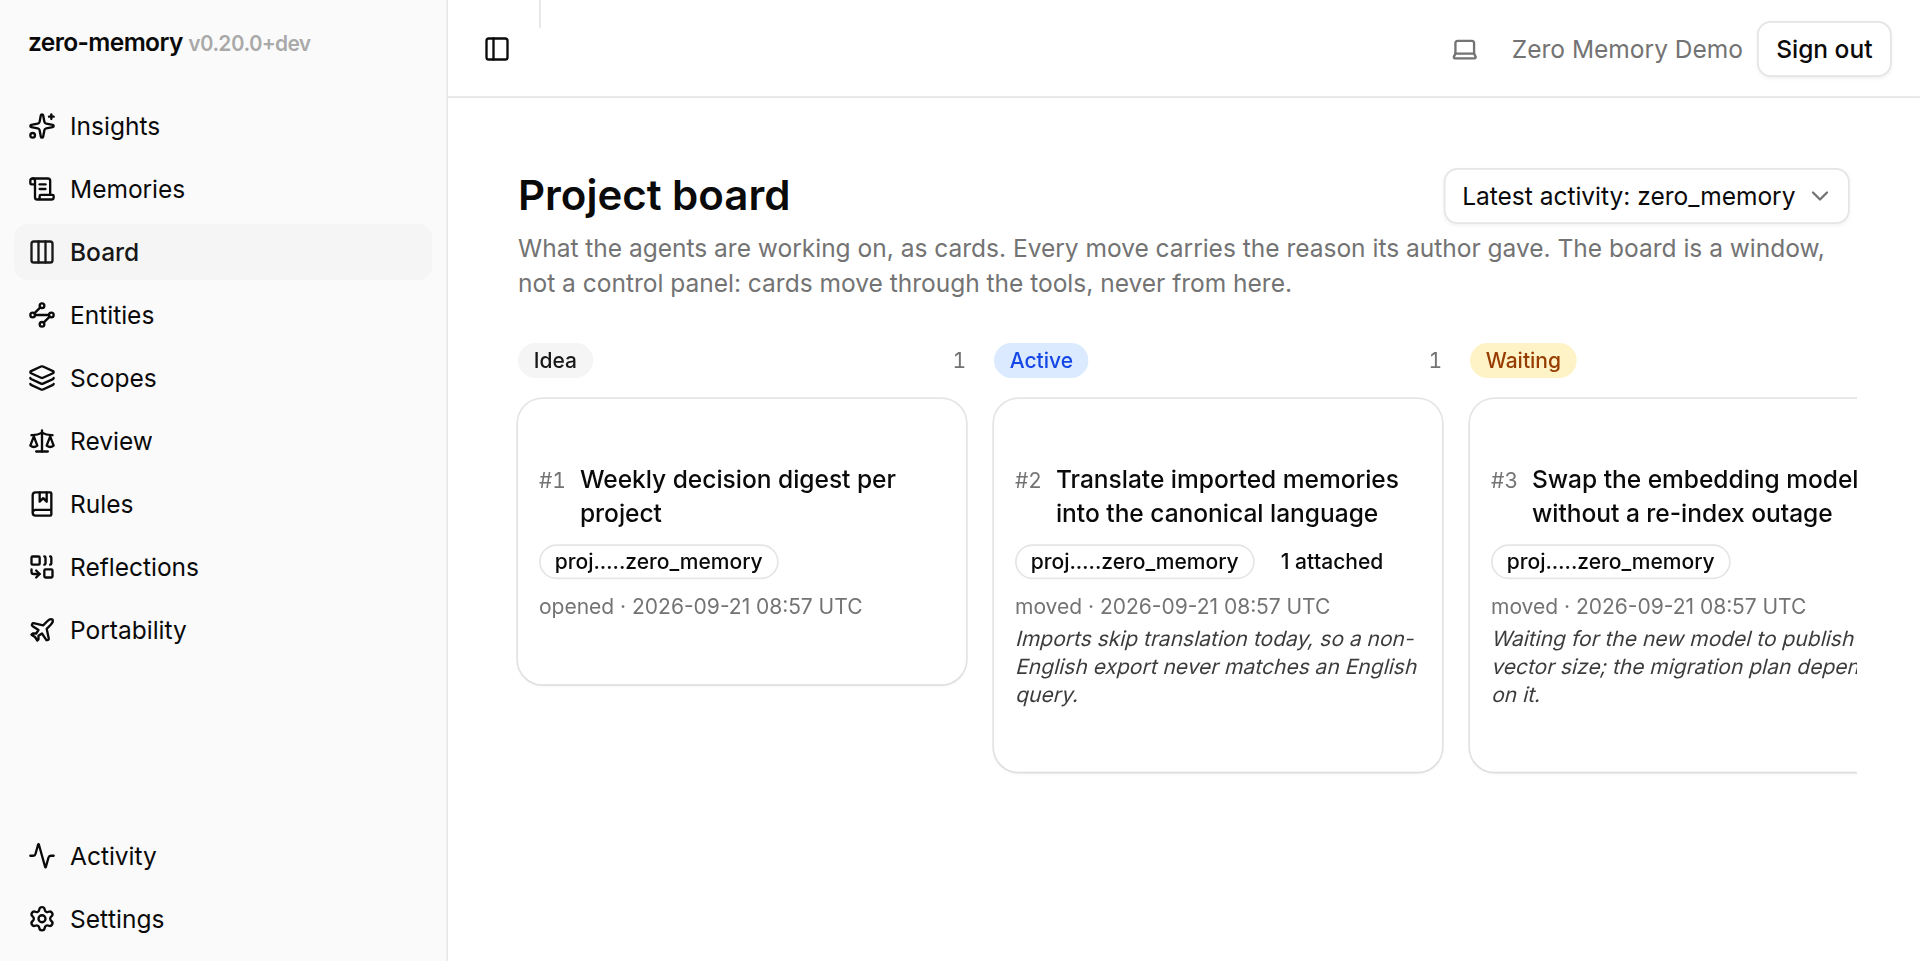
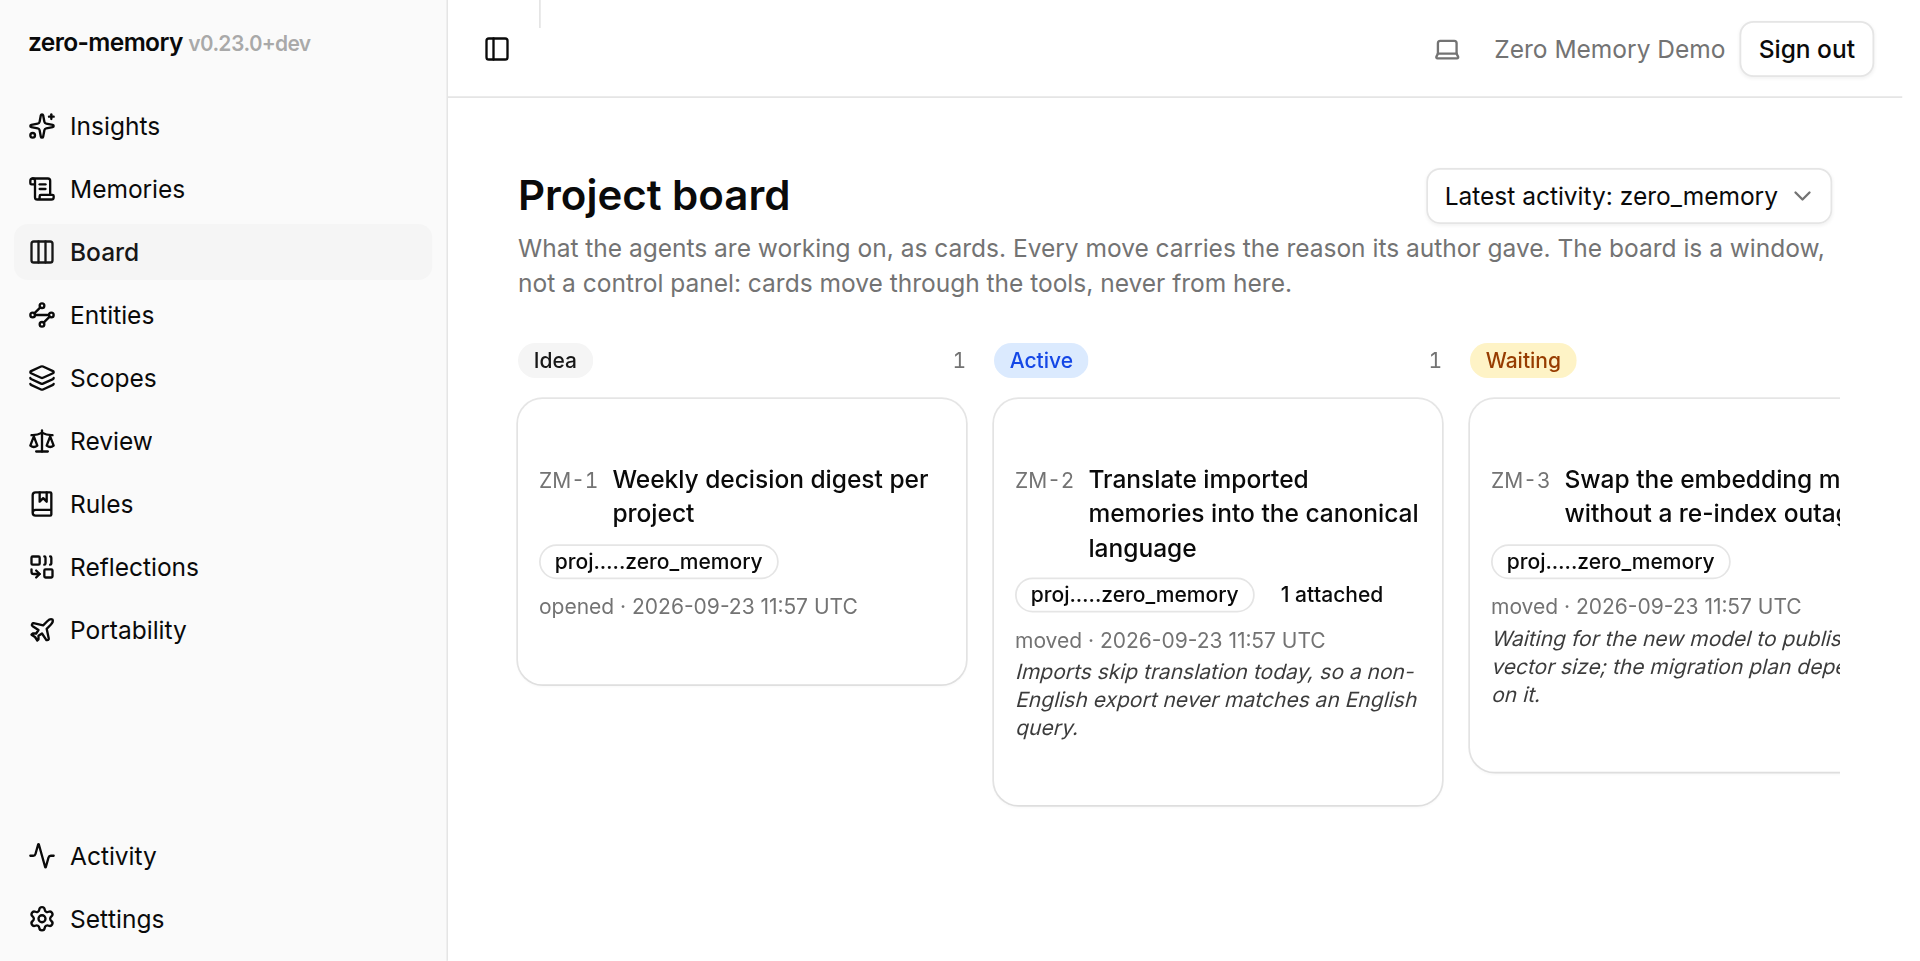
docs(board): branches, landing, and ZM-N as the one label of a card

diff --git a/plugins/zero-memory-hermes/README.md b/plugins/zero-memory-hermes/README.md
@@ -18,13 +18,14 @@ plugin is the amplifier that makes memory _automatic_ rather than remembered.
 
 ## What it adds
 
-| Hook               | Effect                                                                                                                                                                                                                                                                           |
-| ------------------ | -------------------------------------------------------------------------------------------------------------------------------------------------------------------------------------------------------------------------------------------------------------------------------- |
-| `on_session_start` | Opens the session mirror and warms the watcher's offline briefing cache.                                                                                                                                                                                                         |
-| `pre_llm_call`     | The only hook that can inject: the **session briefing** on the first turn (project, standing rules, open loops) and again on any turn after a compaction removed it, the **task briefing** on later substantive prompts, plus the health warning when the server is unreachable. |
-| `post_llm_call`    | Mirrors the completed turn and ships the delta to `ingest_conversation` (opt-in).                                                                                                                                                                                                |
-| `post_tool_call`   | Mirrors `recall` / `build_context` **results** — the input the recall-usefulness judge scores against. Write tools are never recorded.                                                                                                                                           |
-| `on_session_end`   | Logs the session value receipt.                                                                                                                                                                                                                                                  |
+| Hook                    | Effect                                                                                                                                                                                                                                                                           |
+| ----------------------- | -------------------------------------------------------------------------------------------------------------------------------------------------------------------------------------------------------------------------------------------------------------------------------- |
+| `on_session_start`      | Opens the session mirror and warms the watcher's offline briefing cache.                                                                                                                                                                                                         |
+| `pre_llm_call`          | The only hook that can inject: the **session briefing** on the first turn (project, standing rules, open loops) and again on any turn after a compaction removed it, the **task briefing** on later substantive prompts, plus the health warning when the server is unreachable. |
+| `post_llm_call`         | Mirrors the completed turn and ships the delta to `ingest_conversation` (opt-in).                                                                                                                                                                                                |
+| `post_tool_call`        | Mirrors `recall` / `build_context` **results** — the input the recall-usefulness judge scores against. Write tools are never recorded.                                                                                                                                           |
+| `transform_tool_result` | After a `terminal` command, appends one line to its result when a squash commit's board card has no record of its landing — the only channel that reaches the model right after a command. Which commits count is the watcher's `landing` decision.                              |
+| `on_session_end`        | Logs the session value receipt.                                                                                                                                                                                                                                                  |
 
 There is deliberately **no compaction hook**. Hermes exposes none to a general
 plugin (`on_pre_compress` belongs to the memory-provider surface, a different

diff --git a/packages/board/README.md b/packages/board/README.md
@@ -34,6 +34,15 @@ Two invariants shape everything else:
   blocks editing, attaching or noting. The board reports work; it never
   schedules it, claims it or hands it out.
 
+One more thing a move accounts for: **the branch**. Work entering `active`
+names the git branch it runs on, or says why it has none (`no_branch`), unless
+the card already holds an open branch; work leaving `active` with a branch
+still open either records the landing (`landCard`: the squash commit and the
+branch it landed on) or says why it has not landed (`not_landed`). The service
+refuses what it can see without the card — both at once, a blank declaration,
+a branch on a move that is not into `active` — and the store decides the rest
+under the card's lock, answering `branch_required` or `branch_open`.
+
 Archiving is the single terminal act: it takes a card off the board and
 freezes it. Reversible shelving is the `parked` state, which stays on the
 board and moves back like any other.
@@ -47,8 +56,9 @@ without recording a recall. Detaching the conversation is the whole undo.
 ## Key exports
 
 - `CardService` — the application service: `createCard`, `promoteLoop`,
-  `editCard`, `moveCard`, `archiveCard`, `attachRef`, `detachRef`,
-  `noteCard`, `readCard` (history and feed, each on its own cursor),
+  `editCard`, `moveCard`, `archiveCard`, `landCard`, `attachRef`,
+  `detachRef`, `noteCard`, `readCard` (branches, history and feed, the last
+  two each on its own cursor),
   `listBoard`, `resolveCard`. Every call returns a
   `Result`; a no-op (re-attaching the same target, an edit that changes
   nothing) is a success that reports `changed: false`.
@@ -56,10 +66,15 @@ without recording a recall. Detaching the conversation is the whole undo.
   its DI token. One method per atomic store command.
 - `CardFailure`, `toCardFailure`, `cardFailureToErrorCode` — why a call did
   not happen, and how that maps onto the transport's error vocabulary. Every
-  state refusal is a `conflict`; the message keeps the specific reason.
+  state refusal is a `conflict` (`branch_open` included); `branch_required`
+  is a missing input, so it is `validation_failed`. The message keeps the
+  specific reason.
+- `LandCardParams`, `CardBranchView` — a landing as the service takes it, and
+  a branch as a card reads it back.
 - `parseCardRef`, `cardRefKey`, `sameCardRef`, `flattenCardRef` — the closed
-  reference vocabulary (memory, entity, thread, card, url), the identity that
-  makes attaching idempotent, and the flat pair the store keeps.
+  reference vocabulary (memory, entity, thread, card, url, branch — written
+  `<repo>:<branch>`), the identity that makes attaching idempotent, and the
+  flat pair the store keeps.
 
 Schemas, limits and the state vocabulary itself live in
 `@workspace/contracts` (`card.schema.ts`), so storage checks and the tool

diff --git a/apps/watcher/README.md b/apps/watcher/README.md
@@ -92,6 +92,11 @@ zero-memory-watcher guide           # emit the memory-first mandate as a hook's
                                     #   additionalContext (wire on SessionStart)
 zero-memory-watcher nudge           # PreToolUse: once-per-session "recall first"
                                     #   reminder on code search (grep/glob)
+zero-memory-watcher landing         # PostToolUse on shell commands: a fresh
+                                    #   squash (`Squashed-from: … ZM-N`) whose
+                                    #   board card has no record of its landing
+                                    #   gets one line with the exact `card land`
+                                    #   call; each squash checked once per machine
 zero-memory-watcher status          # UserPromptSubmit trailer: warn when the
                                     #   server is unreachable — naming WHICH
                                     #   server (cached per endpoint) AND run
@@ -131,7 +136,19 @@ the part the window's first briefing could not fit. That remainder is queued in
 the local session state (`$XDG_STATE_HOME/zero-memory/session-briefs.json`) and
 drains one memory per message, in the server's rank order, with no server call
 — so it also reaches a session whose server is unreachable. A compaction drops
-the queue with the window. See
+the queue with the window.
+
+`landing` runs after every shell command and nearly always ends after one git
+read. It looks at the newest commits of the repository the command ran in (a
+release commit made by the same command may sit on top of the squash), and
+asks the board only about a squash that names a card and was not checked yet.
+What each check found is kept in
+`$XDG_STATE_HOME/zero-memory/landing-checks.json`, so a landing is reminded
+about once; a check the server could not answer is retried after ten minutes.
+It needs the project this repository was briefed as, so a repository no
+session has briefed yet stays silent. `brief session-start` adds the other
+half: when a branch the board still holds open has already landed in the local
+repository, the work section says so and names the call. See
 [`plugins/zero-memory-claude/`](../../plugins/zero-memory-claude/) and
 [`docs/getting-started/claude-code.mdx`](../../docs/getting-started/claude-code.mdx).
 

diff --git a/plugins/zero-memory-claude/README.md b/plugins/zero-memory-claude/README.md
@@ -20,6 +20,7 @@ http zero-memory <url>`), keeping the plain prefix and a single label.
 | `SessionStart` hooks    | Briefs the agent on the project + branch from memory (`brief session-start`), announces a plugin update when the deploy source ships a newer version (shown directly in chat via `systemMessage`, at session start and rechecked ~hourly on prompts until updated), and injects the memory-first mandate (`guide`) when a session opens. |
 | `UserPromptSubmit` hook | Briefs the agent on the task from memory on the first substantive prompt (`zero-memory-watcher brief task`).                                                                                                                                                                                                                             |
 | `PreToolUse` hook       | Once-per-session "recall first" reminder when the agent reaches for a code search (Grep/Glob) instead of memory (`zero-memory-watcher nudge`).                                                                                                                                                                                           |
+| `PostToolUse` hook      | Right after a `Bash` command, a squash commit whose board card has no record of its landing gets one line naming the exact `card` `land` call; each squash is checked once per machine (`zero-memory-watcher landing`).                                                                                                                  |
 | `SessionEnd` hook       | One chat-visible session value receipt via `systemMessage` ("captured N · M recalled facts fired · loops +A/−B · ~T tokens saved"), once per session; silent when the session produced nothing (`zero-memory-watcher receipt`). Works read-only when transcript capture is off.                                                          |
 | `zero-memory` skill     | The "memory first" working rule (plugins cannot patch `CLAUDE.md`, so the rule lives here).                                                                                                                                                                                                                                              |
 

diff --git a/docs/DEPRECATIONS.md b/docs/DEPRECATIONS.md
@@ -53,7 +53,8 @@ observes. They carry no version bump, because there is nothing to migrate;
 they are listed so a client that branched on the old behaviour can find out
 why it changed.
 
-| Change | What a client should know |
-| ------ | ------------------------- |
-
-_None recorded since the first public release._
+| Change                                                                                                                                                                                                     | What a client should know                                                                                                                |
+| ---------------------------------------------------------------------------------------------------------------------------------------------------------------------------------------------------------- | ---------------------------------------------------------------------------------------------------------------------------------------- |
+| `card` `move` into `active` — and `create` / `promote_loop` straight into it — is refused with `branch_required` unless the call passes `branch` or `no_branch`, or the card already holds an open branch. | Pass the work's branch (`{repo, name}`) or `no_branch` with a reason. `promote_loop` opens in `active` by default, so it is covered too. |
+| `card` `move` out of `active` is refused with `branch_open` while the card holds an open branch.                                                                                                           | Record the landing with the new `land` action, or pass `not_landed` saying why the branch has not landed.                                |
+| Cards are labelled `ZM-N` instead of `#N` in briefing text, server messages and the dashboard.                                                                                                             | The number itself is unchanged and `board resolve` still takes it; only text that quoted `#N` reads differently.                         |

diff --git a/plugins/zero-memory-codex/README.md b/plugins/zero-memory-codex/README.md
@@ -22,6 +22,10 @@ plugins/zero-memory-codex/
   so the commands are the watcher subcommands with `--client codex`:
   - `SessionStart` (matcher `startup|resume`) → `brief session-start`
   - `UserPromptSubmit` → `brief task` + `status`
+  - `PostToolUse` (matcher `Bash`) → `landing` — right after a shell command,
+    a squash whose board card has no record of its landing gets one line with
+    the exact `card` `land` call. Codex runs a new hook only after it is
+    trusted in `/hooks`, so updating the plugin asks for that once.
   - `Stop` → `ingest` (labeled `codex-stop-hook` in provenance)
   - `PreCompact` → `checkpoint` — captures the epoch about to be condensed
     while it is still whole, and advances the offset past the boundary. Capture

diff --git a/plugins/zero-memory-cursor/README.md b/plugins/zero-memory-cursor/README.md
@@ -28,6 +28,10 @@ plugins/zero-memory-cursor/
     (`user_message`) when the server is unreachable.
   - `preToolUse` (matcher `Grep|Glob`) → `nudge` — a once-per-session
     "recall first" reminder on code search (`agent_message`).
+  - `postToolUse` (matcher `Shell`) → `landing` — right after a shell command,
+    a squash whose board card has no record of its landing gets one line with
+    the exact `card` `land` call (`additional_context`; `afterShellExecution`
+    only observes, so it cannot carry the line).
   - `stop` → `ingest` — captures the new part of the session transcript into
     memory, labeled `cursor-stop-hook` in provenance.
   - `preCompact` → `checkpoint` — captures the epoch about to be condensed
